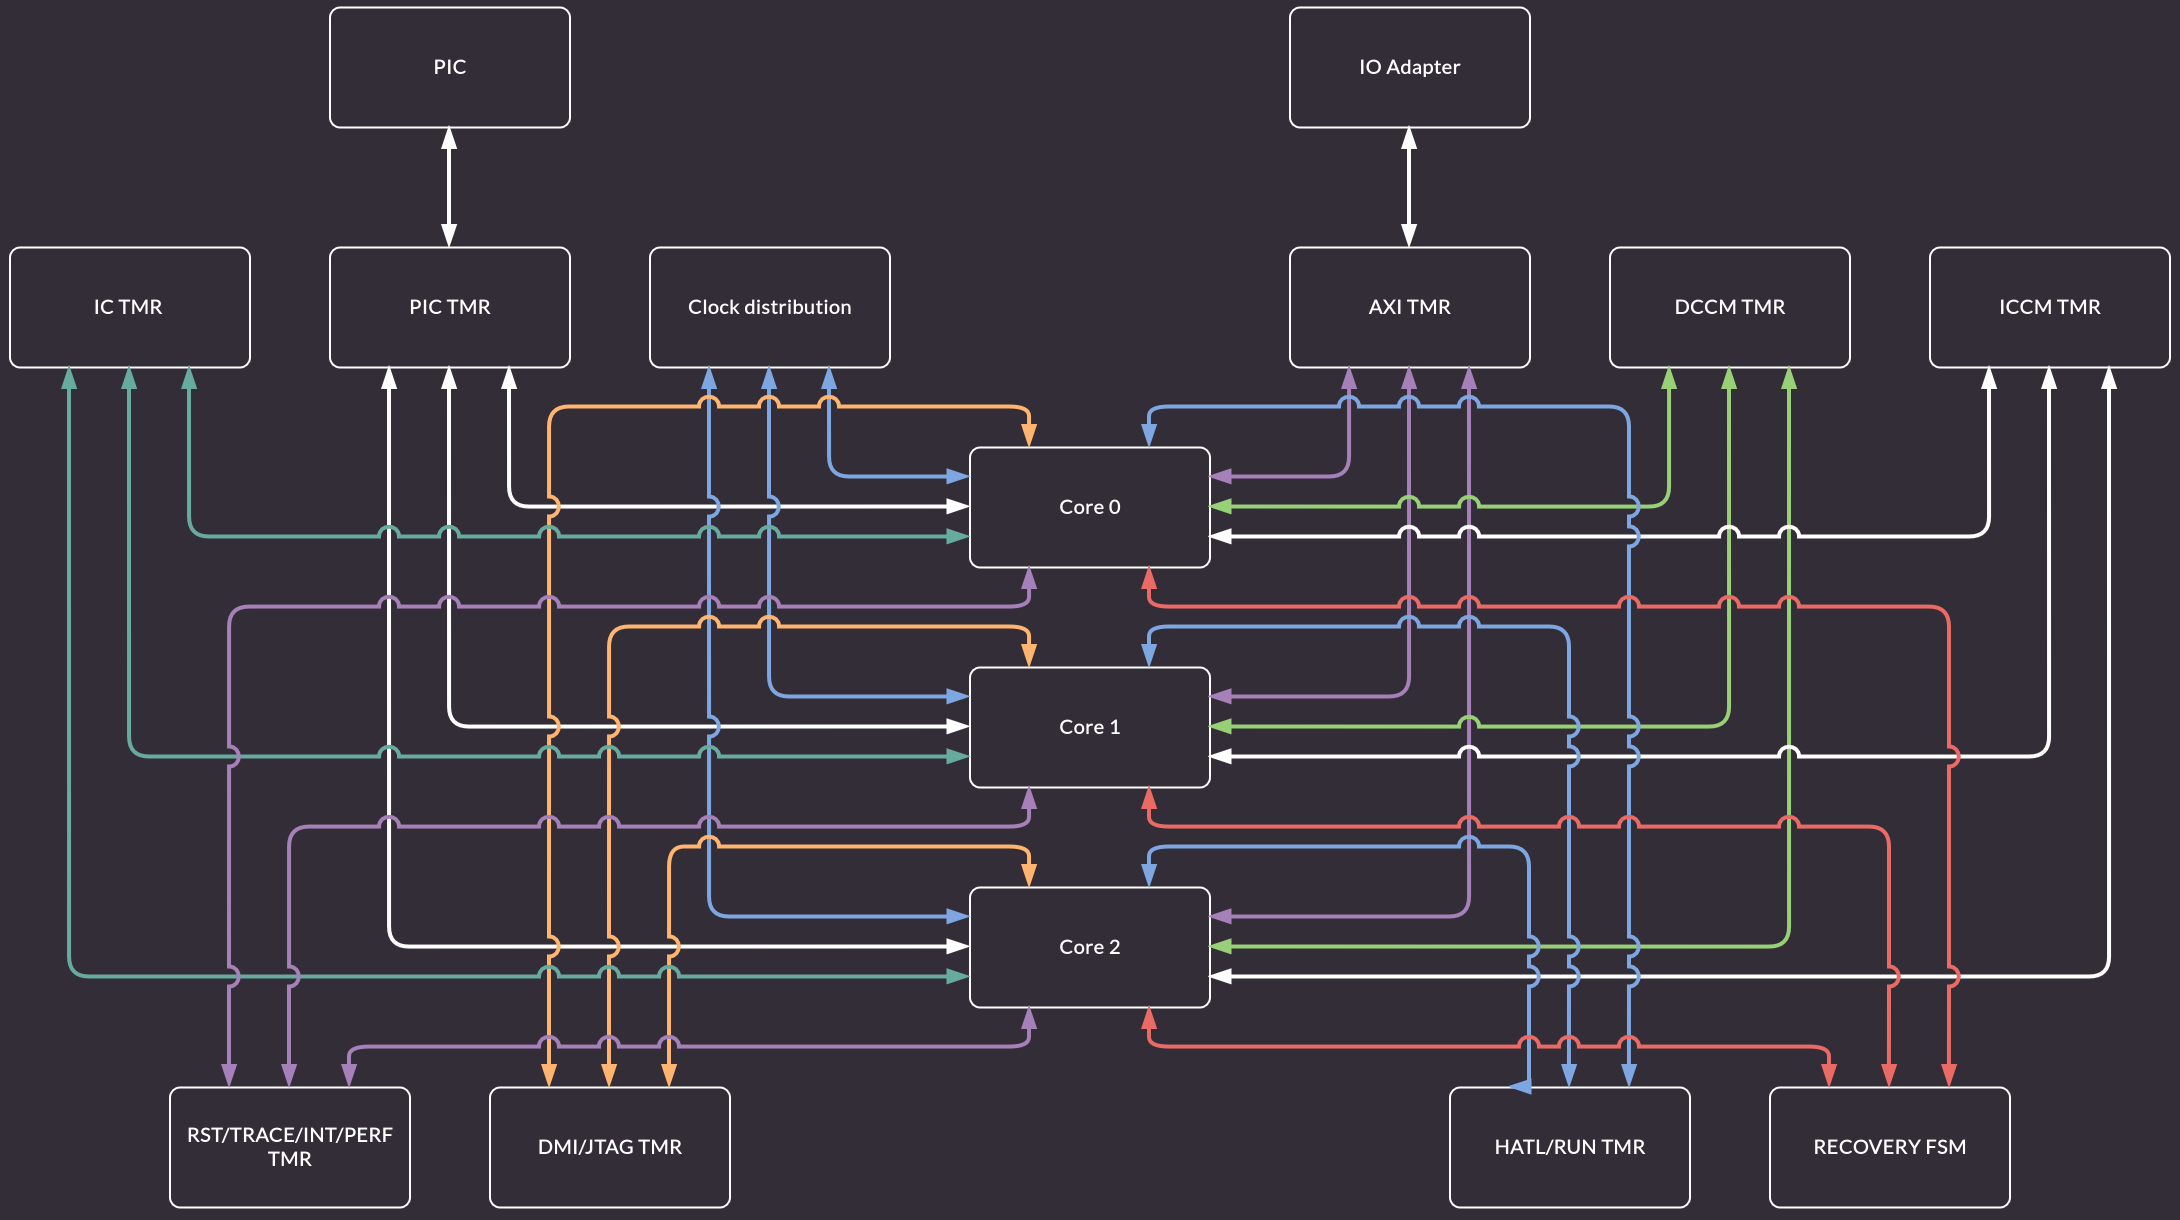
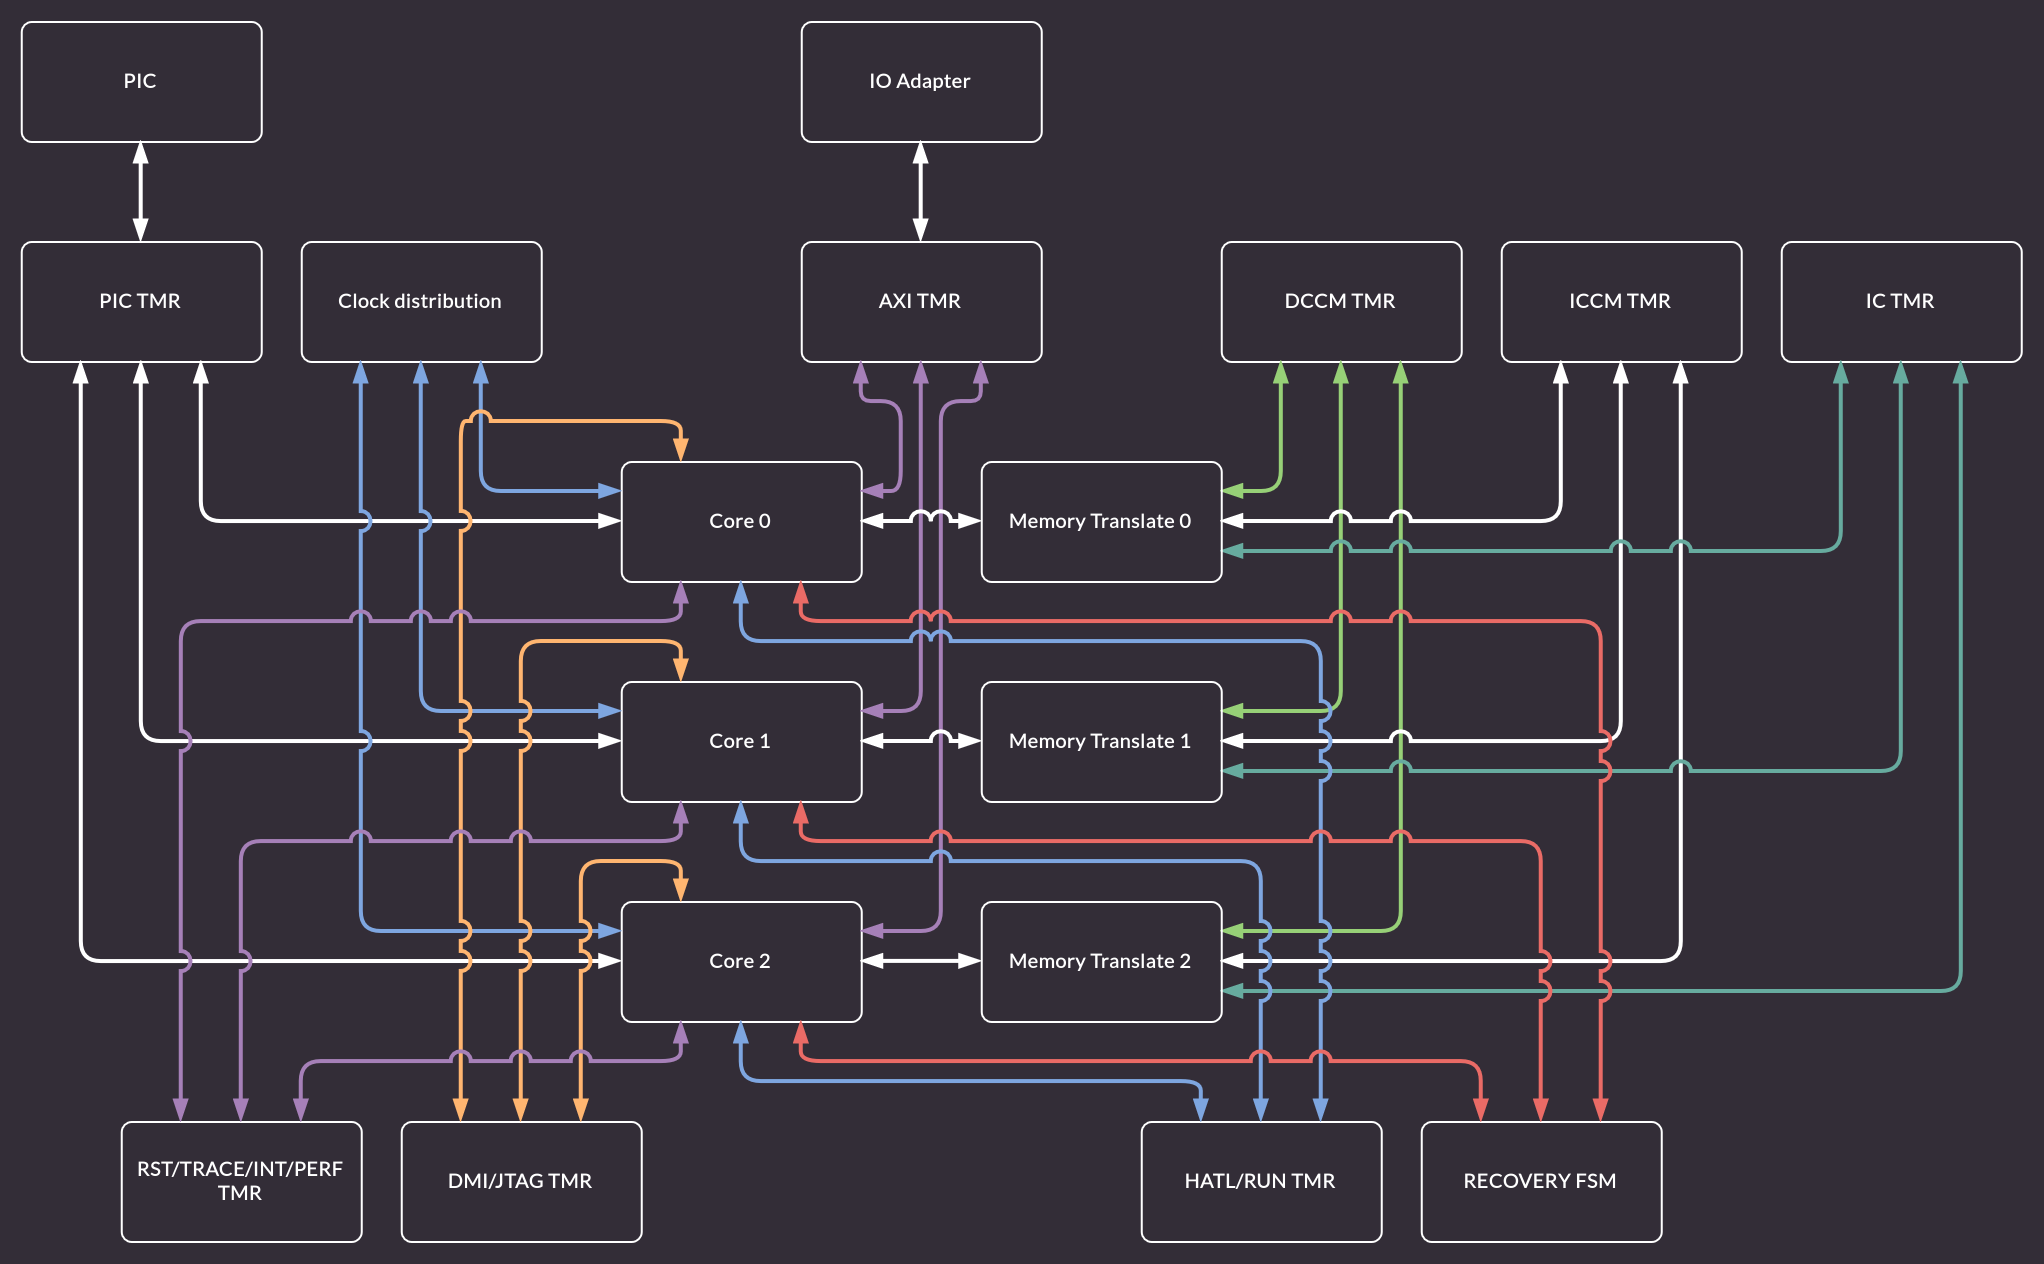
Update TMR complex diagram

diff --git a/docs/source/triple-modular-redundancy.md b/docs/source/triple-modular-redundancy.md
@@ -30,8 +30,8 @@ Block diagram of the TMR complex
 :::
 
 The TMR complex contains:
-* 3 VeeR EL2 cores without integrated PIC
-* PIC common for all the cores in the complex
+* 3 VeeR EL2 cores with memory translation and without integrated PIC
+* common PIC for all the cores in the complex
 * PIC TMR - interface voter that handles PIC and external interrupt buses
 * IC TMR - interface voter that handles Instruction Cache bus
 * Clock distribution module - gates and distributes clocks to the TMR complex logic and to the VeeR EL2 cores
@@ -155,7 +155,7 @@ VeeR core uses three kinds of CCM (closely coupled memory):
  * DCCM
  * I-Cache
 
-There's also the PIC which is memory mapped and connected through a dedicated interface resembing one of a CCM block.
+There's also the PIC which is memory mapped and connected through a dedicated interface resembling one of a CCM block.
 
 All of them are connected to the core via interfaces, where VeeR is the manager.
 
